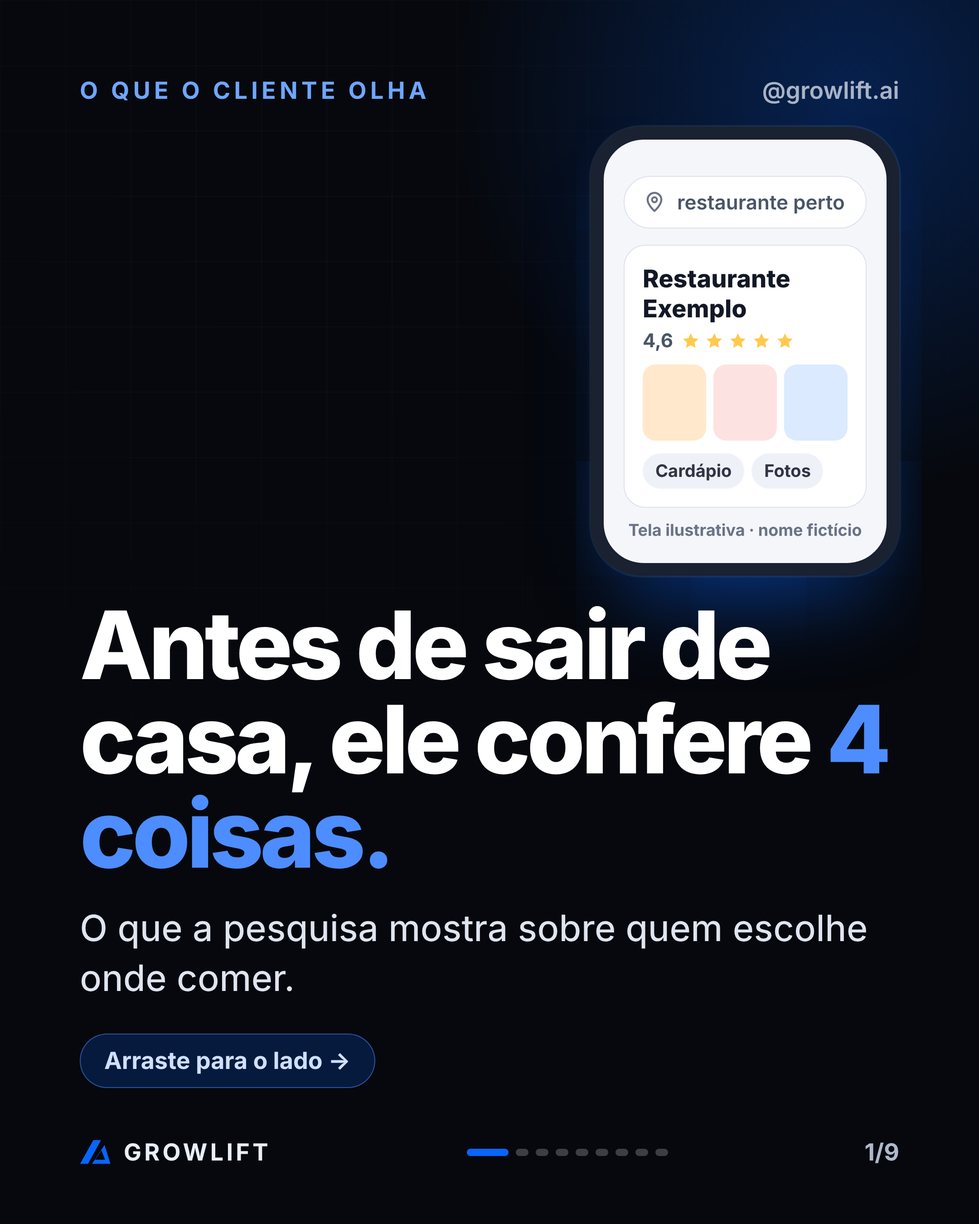
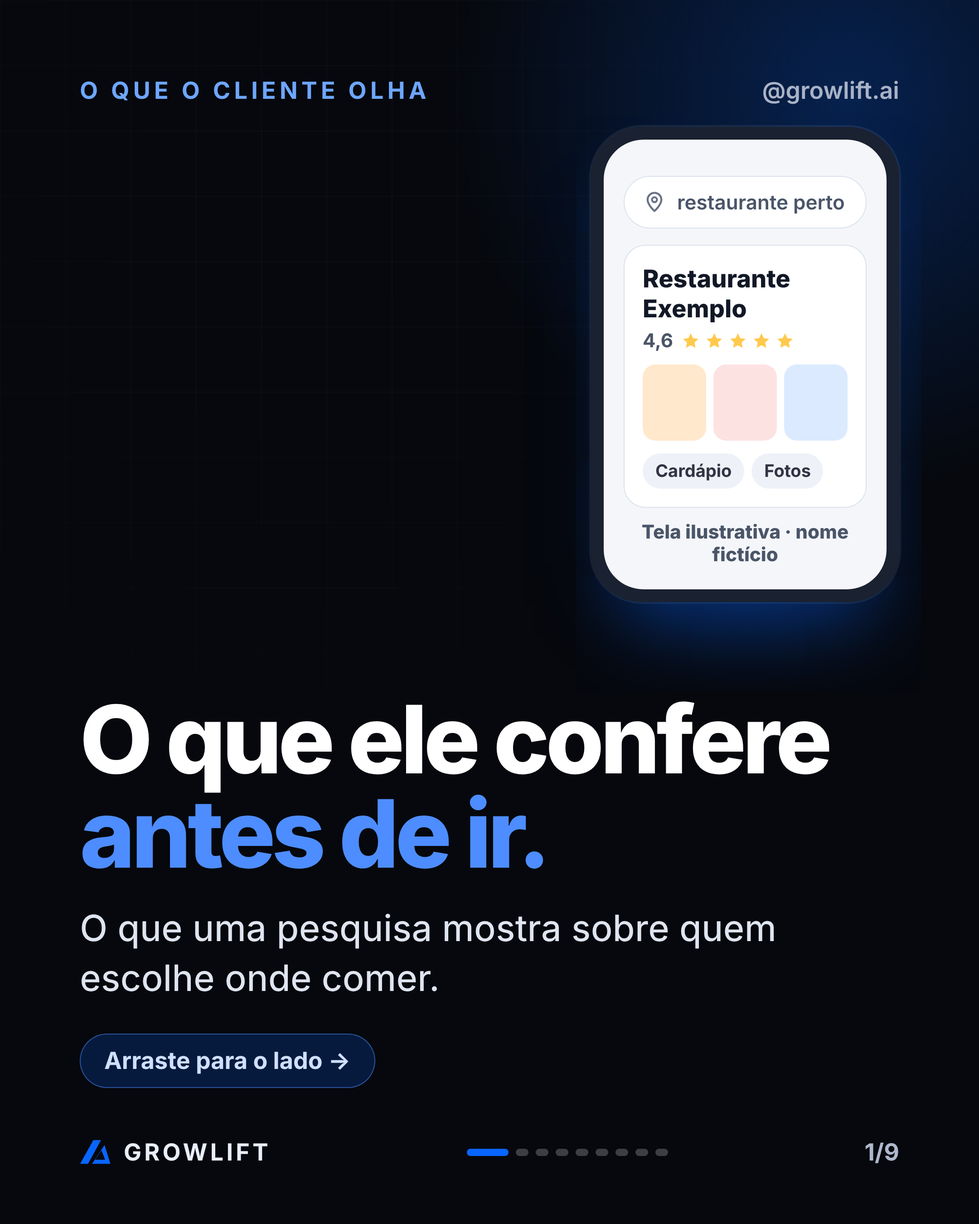
Carrosséis: ajustes da revisão legal (números fiéis à pesquisa, amostra de 3.006 casas, pedir avaliação a todos)
Claude-Session: https://claude.ai/code/session_0144E8K5YaHTVDtLe8swm1ug

Changed region(s): [[0.062, 0.4044, 0.9306, 0.7156], [0.0931, 0.7467, 0.8995, 0.8089]]

diff --git a/growlift-social/_fonte/html/09-carrosseis/02-avaliacao-ruim/01.html b/growlift-social/_fonte/html/09-carrosseis/02-avaliacao-ruim/01.html
@@ -39,7 +39,7 @@ body{background:#06080d}
 </style></head><body><div class="glow" style="width:1250px;height:1250px;right:-480px;top:-520px;opacity:.6"></div><div class="grid"></div>
     <div style="position:absolute;left:88px;right:88px;top:84px;display:flex;justify-content:space-between;align-items:center">
       <span class="k">Modelos prontos</span><span style="font-size:26px;font-weight:600;color:#a9b3c7">@growlift.ai</span></div>
-    <div style="position:absolute;left:88px;right:88px;top:170px;bottom:150px"><div style="position:absolute;left:0;right:0;top:0"><div class="card" style="margin-left:auto;width:720px;background:#f4f6fa;color:#121826;padding:30px 34px;transform:rotate(-3deg)"><div style="display:flex;justify-content:space-between;align-items:center"><b style="font-size:28px">Cliente (exemplo)</b><span style="display:inline-flex;gap:4px"><svg width="36" height="36" viewBox="0 0 24 24"><path d="M12 2.8l2.8 5.9 6.4.8-4.7 4.4 1.2 6.4L12 17.2l-5.7 3.1 1.2-6.4-4.7-4.4 6.4-.8z" fill="#ffc94d"/></svg><svg width="36" height="36" viewBox="0 0 24 24"><path d="M12 2.8l2.8 5.9 6.4.8-4.7 4.4 1.2 6.4L12 17.2l-5.7 3.1 1.2-6.4-4.7-4.4 6.4-.8z" fill="#d5dbe5"/></svg><svg width="36" height="36" viewBox="0 0 24 24"><path d="M12 2.8l2.8 5.9 6.4.8-4.7 4.4 1.2 6.4L12 17.2l-5.7 3.1 1.2-6.4-4.7-4.4 6.4-.8z" fill="#d5dbe5"/></svg><svg width="36" height="36" viewBox="0 0 24 24"><path d="M12 2.8l2.8 5.9 6.4.8-4.7 4.4 1.2 6.4L12 17.2l-5.7 3.1 1.2-6.4-4.7-4.4 6.4-.8z" fill="#d5dbe5"/></svg><svg width="36" height="36" viewBox="0 0 24 24"><path d="M12 2.8l2.8 5.9 6.4.8-4.7 4.4 1.2 6.4L12 17.2l-5.7 3.1 1.2-6.4-4.7-4.4 6.4-.8z" fill="#d5dbe5"/></svg></span></div><p style="font-size:32px;line-height:1.4;margin-top:14px;color:#2b3446">“Demorou demais e a comida chegou fria.”</p></div></div>
+    <div style="position:absolute;left:88px;right:88px;top:170px;bottom:150px"><div style="position:absolute;left:0;right:0;top:0"><div class="card" style="margin-left:auto;width:720px;background:#f4f6fa;color:#121826;padding:30px 34px;transform:rotate(-3deg)"><div style="display:flex;justify-content:space-between;align-items:center"><b style="font-size:28px">Cliente fictício (exemplo)</b><span style="display:inline-flex;gap:4px"><svg width="36" height="36" viewBox="0 0 24 24"><path d="M12 2.8l2.8 5.9 6.4.8-4.7 4.4 1.2 6.4L12 17.2l-5.7 3.1 1.2-6.4-4.7-4.4 6.4-.8z" fill="#ffc94d"/></svg><svg width="36" height="36" viewBox="0 0 24 24"><path d="M12 2.8l2.8 5.9 6.4.8-4.7 4.4 1.2 6.4L12 17.2l-5.7 3.1 1.2-6.4-4.7-4.4 6.4-.8z" fill="#d5dbe5"/></svg><svg width="36" height="36" viewBox="0 0 24 24"><path d="M12 2.8l2.8 5.9 6.4.8-4.7 4.4 1.2 6.4L12 17.2l-5.7 3.1 1.2-6.4-4.7-4.4 6.4-.8z" fill="#d5dbe5"/></svg><svg width="36" height="36" viewBox="0 0 24 24"><path d="M12 2.8l2.8 5.9 6.4.8-4.7 4.4 1.2 6.4L12 17.2l-5.7 3.1 1.2-6.4-4.7-4.4 6.4-.8z" fill="#d5dbe5"/></svg><svg width="36" height="36" viewBox="0 0 24 24"><path d="M12 2.8l2.8 5.9 6.4.8-4.7 4.4 1.2 6.4L12 17.2l-5.7 3.1 1.2-6.4-4.7-4.4 6.4-.8z" fill="#d5dbe5"/></svg></span></div><p style="font-size:32px;line-height:1.4;margin-top:14px;color:#2b3446">“Demorou demais e a comida chegou fria.”</p></div></div>
    <div style="position:absolute;left:0;right:0;bottom:0">
      
      <h1 class="t" style="font-size:104px">Recebeu 1 estrela. <span class="b">E agora?</span></h1>

diff --git a/growlift-social/_fonte/html/09-carrosseis/02-avaliacao-ruim/02.html b/growlift-social/_fonte/html/09-carrosseis/02-avaliacao-ruim/02.html
@@ -41,10 +41,10 @@ body{background:#06080d}
       <span class="k">Modelos prontos</span><span style="font-size:26px;font-weight:600;color:#a9b3c7">@growlift.ai</span></div>
     <div style="position:absolute;left:88px;right:88px;top:170px;bottom:150px"><div style="position:absolute;left:0;right:0;top:40px">
      <div style="font-size:300px;font-weight:900;letter-spacing:-.06em;line-height:.9;background:linear-gradient(180deg,#8db8ff,#0865fe);-webkit-background-clip:text;color:transparent">27%</div>
-     <h2 class="t" style="font-size:76px;margin-top:30px">das avaliações de restaurantes no Google recebem resposta.</h2>
-     <p class="p" style="margin-top:28px">E 40% dos clientes olham como você responde a uma crítica (Reclame AQUI e Abrasel, 2024).</p>
+     <h2 class="t" style="font-size:76px;margin-top:30px">das avaliações de 3.006 bares e restaurantes analisados no Google tiveram resposta.</h2>
+     <p class="p" style="margin-top:28px">E, pra 40% dos clientes, a resposta à crítica é fundamental pra decidir (Reclame AQUI e Abrasel, 2024).</p>
    </div>
-   <p class="s" style="position:absolute;left:0;right:0;bottom:0;border-top:1.5px solid rgba(255,255,255,.12);padding-top:22px">Fonte: Abrasel e Harmo, 279 mil avaliações de 3.006 bares e restaurantes no Google, jan/2023 a set/2024.</p></div>
+   <p class="s" style="position:absolute;left:0;right:0;bottom:0;border-top:1.5px solid rgba(255,255,255,.12);padding-top:22px">Fonte: Abrasel e Harmo, 279 mil avaliações de 3.006 bares e restaurantes associados à Abrasel no Google, jan/2023 a set/2024.</p></div>
     <div style="position:absolute;left:88px;right:88px;bottom:64px;display:flex;justify-content:space-between;align-items:center">
       <div style="display:flex;align-items:center;gap:14px;font-size:26px;font-weight:700;letter-spacing:.12em;color:#e8eefa"><span style="display:inline-block;height:27px"><svg height="27" viewBox="50 40 530 415" xmlns="http://www.w3.org/2000/svg"><path fill="#0865FE" d="M280 48H410L190 450H55Z"/><path fill="#0865FE" fill-rule="evenodd" d="M470 130L570 450H258Z M418 220L480 380H309Z"/></svg></span>GROWLIFT</div>
       <div style="display:flex;align-items:center;gap:8px"><i style="display:block;height:8px;border-radius:4px;width:14px;background:rgba(255,255,255,.22)"></i><i style="display:block;height:8px;border-radius:4px;width:46px;background:#0865fe"></i><i style="display:block;height:8px;border-radius:4px;width:14px;background:rgba(255,255,255,.22)"></i><i style="display:block;height:8px;border-radius:4px;width:14px;background:rgba(255,255,255,.22)"></i><i style="display:block;height:8px;border-radius:4px;width:14px;background:rgba(255,255,255,.22)"></i><i style="display:block;height:8px;border-radius:4px;width:14px;background:rgba(255,255,255,.22)"></i><i style="display:block;height:8px;border-radius:4px;width:14px;background:rgba(255,255,255,.22)"></i><i style="display:block;height:8px;border-radius:4px;width:14px;background:rgba(255,255,255,.22)"></i><i style="display:block;height:8px;border-radius:4px;width:14px;background:rgba(255,255,255,.22)"></i></div>

diff --git a/growlift-social/_fonte/html/09-carrosseis/02-avaliacao-ruim/07.html b/growlift-social/_fonte/html/09-carrosseis/02-avaliacao-ruim/07.html
@@ -47,7 +47,7 @@ body{background:#06080d}
      </div>
      <div class="card" style="padding:30px 34px;border-color:rgba(255,107,91,.45)">
        <div class="k" style="color:#ff6b5b">Evite</div>
-       <div class="row" style="margin-top:20px"><span class="ck" style="background:rgba(255,107,91,.18);width:48px;height:48px"><svg width="26" height="26" viewBox="0 0 24 24" fill="none" stroke="#ff6b5b" stroke-width="3.2" stroke-linecap="round"><path d="M6 6l12 12M18 6L6 18"/></svg></span><span style="font-size:36px;font-weight:650;line-height:1.3">Discutir ou acusar o cliente</span></div><div class="row" style="margin-top:20px"><span class="ck" style="background:rgba(255,107,91,.18);width:48px;height:48px"><svg width="26" height="26" viewBox="0 0 24 24" fill="none" stroke="#ff6b5b" stroke-width="3.2" stroke-linecap="round"><path d="M6 6l12 12M18 6L6 18"/></svg></span><span style="font-size:36px;font-weight:650;line-height:1.3">A mesma resposta copiada pra todos</span></div><div class="row" style="margin-top:20px"><span class="ck" style="background:rgba(255,107,91,.18);width:48px;height:48px"><svg width="26" height="26" viewBox="0 0 24 24" fill="none" stroke="#ff6b5b" stroke-width="3.2" stroke-linecap="round"><path d="M6 6l12 12M18 6L6 18"/></svg></span><span style="font-size:36px;font-weight:650;line-height:1.3">Oferecer brinde pra mudar a nota</span></div>
+       <div class="row" style="margin-top:20px"><span class="ck" style="background:rgba(255,107,91,.18);width:48px;height:48px"><svg width="26" height="26" viewBox="0 0 24 24" fill="none" stroke="#ff6b5b" stroke-width="3.2" stroke-linecap="round"><path d="M6 6l12 12M18 6L6 18"/></svg></span><span style="font-size:36px;font-weight:650;line-height:1.3">Discutir ou acusar o cliente</span></div><div class="row" style="margin-top:20px"><span class="ck" style="background:rgba(255,107,91,.18);width:48px;height:48px"><svg width="26" height="26" viewBox="0 0 24 24" fill="none" stroke="#ff6b5b" stroke-width="3.2" stroke-linecap="round"><path d="M6 6l12 12M18 6L6 18"/></svg></span><span style="font-size:36px;font-weight:650;line-height:1.3">A mesma resposta copiada pra todos</span></div><div class="row" style="margin-top:20px"><span class="ck" style="background:rgba(255,107,91,.18);width:48px;height:48px"><svg width="26" height="26" viewBox="0 0 24 24" fill="none" stroke="#ff6b5b" stroke-width="3.2" stroke-linecap="round"><path d="M6 6l12 12M18 6L6 18"/></svg></span><span style="font-size:36px;font-weight:650;line-height:1.3">Expor dados do cliente na resposta</span></div><div class="row" style="margin-top:20px"><span class="ck" style="background:rgba(255,107,91,.18);width:48px;height:48px"><svg width="26" height="26" viewBox="0 0 24 24" fill="none" stroke="#ff6b5b" stroke-width="3.2" stroke-linecap="round"><path d="M6 6l12 12M18 6L6 18"/></svg></span><span style="font-size:36px;font-weight:650;line-height:1.3">Oferecer brinde pra mudar a nota</span></div>
      </div>
    </div></div>
     <div style="position:absolute;left:88px;right:88px;bottom:64px;display:flex;justify-content:space-between;align-items:center">

diff --git a/growlift-social/_fonte/html/09-carrosseis/02-avaliacao-ruim/05.html b/growlift-social/_fonte/html/09-carrosseis/02-avaliacao-ruim/05.html
@@ -41,7 +41,7 @@ body{background:#06080d}
       <span class="k">Modelos prontos</span><span style="font-size:26px;font-weight:600;color:#a9b3c7">@growlift.ai</span></div>
     <div style="position:absolute;left:88px;right:88px;top:170px;bottom:150px"><span class="pill">Avaliação média</span>
    <div class="card" style="margin-top:34px;background:#f4f6fa;color:#121826;padding:34px 38px">
-     <div style="display:flex;justify-content:space-between;align-items:center"><b style="font-size:30px">Cliente (exemplo)</b><span style="display:inline-flex;gap:4px"><svg width="36" height="36" viewBox="0 0 24 24"><path d="M12 2.8l2.8 5.9 6.4.8-4.7 4.4 1.2 6.4L12 17.2l-5.7 3.1 1.2-6.4-4.7-4.4 6.4-.8z" fill="#ffc94d"/></svg><svg width="36" height="36" viewBox="0 0 24 24"><path d="M12 2.8l2.8 5.9 6.4.8-4.7 4.4 1.2 6.4L12 17.2l-5.7 3.1 1.2-6.4-4.7-4.4 6.4-.8z" fill="#ffc94d"/></svg><svg width="36" height="36" viewBox="0 0 24 24"><path d="M12 2.8l2.8 5.9 6.4.8-4.7 4.4 1.2 6.4L12 17.2l-5.7 3.1 1.2-6.4-4.7-4.4 6.4-.8z" fill="#ffc94d"/></svg><svg width="36" height="36" viewBox="0 0 24 24"><path d="M12 2.8l2.8 5.9 6.4.8-4.7 4.4 1.2 6.4L12 17.2l-5.7 3.1 1.2-6.4-4.7-4.4 6.4-.8z" fill="#d5dbe5"/></svg><svg width="36" height="36" viewBox="0 0 24 24"><path d="M12 2.8l2.8 5.9 6.4.8-4.7 4.4 1.2 6.4L12 17.2l-5.7 3.1 1.2-6.4-4.7-4.4 6.4-.8z" fill="#d5dbe5"/></svg></span></div>
+     <div style="display:flex;justify-content:space-between;align-items:center"><b style="font-size:30px">Cliente fictício (exemplo)</b><span style="display:inline-flex;gap:4px"><svg width="36" height="36" viewBox="0 0 24 24"><path d="M12 2.8l2.8 5.9 6.4.8-4.7 4.4 1.2 6.4L12 17.2l-5.7 3.1 1.2-6.4-4.7-4.4 6.4-.8z" fill="#ffc94d"/></svg><svg width="36" height="36" viewBox="0 0 24 24"><path d="M12 2.8l2.8 5.9 6.4.8-4.7 4.4 1.2 6.4L12 17.2l-5.7 3.1 1.2-6.4-4.7-4.4 6.4-.8z" fill="#ffc94d"/></svg><svg width="36" height="36" viewBox="0 0 24 24"><path d="M12 2.8l2.8 5.9 6.4.8-4.7 4.4 1.2 6.4L12 17.2l-5.7 3.1 1.2-6.4-4.7-4.4 6.4-.8z" fill="#ffc94d"/></svg><svg width="36" height="36" viewBox="0 0 24 24"><path d="M12 2.8l2.8 5.9 6.4.8-4.7 4.4 1.2 6.4L12 17.2l-5.7 3.1 1.2-6.4-4.7-4.4 6.4-.8z" fill="#d5dbe5"/></svg><svg width="36" height="36" viewBox="0 0 24 24"><path d="M12 2.8l2.8 5.9 6.4.8-4.7 4.4 1.2 6.4L12 17.2l-5.7 3.1 1.2-6.4-4.7-4.4 6.4-.8z" fill="#d5dbe5"/></svg></span></div>
      <p style="font-size:34px;line-height:1.4;margin-top:16px;color:#2b3446">“Comida boa, mas o lugar estava cheio e barulhento.”</p>
    </div>
    <div style="display:flex;align-items:center;gap:14px;margin:30px 0 0 30px" class="k"><svg width="34" height="34" viewBox="0 0 24 24" fill="none" stroke="#6ea6ff" stroke-width="2" stroke-linecap="round" stroke-linejoin="round" aria-hidden="true"><path d="M20.5 11.5a8.5 8.5 0 0 1-12.6 7.4L3 20.5l1.5-4.7A8.5 8.5 0 1 1 20.5 11.5z"/><path d="M8.5 11.5h.01M12 11.5h.01M15.5 11.5h.01" stroke-width="2.6"/></svg>Sua resposta (copie e adapte)</div>

diff --git a/growlift-social/_fonte/html/09-carrosseis/01-antes-de-ir/07.html b/growlift-social/_fonte/html/09-carrosseis/01-antes-de-ir/07.html
@@ -41,10 +41,10 @@ body{background:#06080d}
       <span class="k">O que o cliente olha</span><span style="font-size:26px;font-weight:600;color:#a9b3c7">@growlift.ai</span></div>
     <div style="position:absolute;left:88px;right:88px;top:170px;bottom:150px"><div style="position:absolute;left:0;right:0;top:40px">
      <div style="font-size:300px;font-weight:900;letter-spacing:-.06em;line-height:.9;background:linear-gradient(180deg,#8db8ff,#0865fe);-webkit-background-clip:text;color:transparent">40%</div>
-     <h2 class="t" style="font-size:76px;margin-top:30px">olham como você responde a uma crítica.</h2>
-     <p class="p" style="margin-top:28px">Uma resposta educada pesa tanto quanto a reclamação.</p>
+     <h2 class="t" style="font-size:76px;margin-top:30px">dizem que a resposta à crítica é fundamental pra decidir.</h2>
+     <p class="p" style="margin-top:28px">Responder bem, com educação, pode fazer diferença.</p>
    </div>
-   <p class="s" style="position:absolute;left:0;right:0;bottom:0;border-top:1.5px solid rgba(255,255,255,.12);padding-top:22px">Fonte: Reclame AQUI e Abrasel, pesquisa com mais de 400 consumidores, agosto de 2024.</p></div>
+   <p class="s" style="position:absolute;left:0;right:0;bottom:0;border-top:1.5px solid rgba(255,255,255,.12);padding-top:22px">Fonte: Reclame AQUI e Abrasel, pesquisa com mais de 400 consumidores na plataforma do Reclame AQUI, agosto de 2024.</p></div>
     <div style="position:absolute;left:88px;right:88px;bottom:64px;display:flex;justify-content:space-between;align-items:center">
       <div style="display:flex;align-items:center;gap:14px;font-size:26px;font-weight:700;letter-spacing:.12em;color:#e8eefa"><span style="display:inline-block;height:27px"><svg height="27" viewBox="50 40 530 415" xmlns="http://www.w3.org/2000/svg"><path fill="#0865FE" d="M280 48H410L190 450H55Z"/><path fill="#0865FE" fill-rule="evenodd" d="M470 130L570 450H258Z M418 220L480 380H309Z"/></svg></span>GROWLIFT</div>
       <div style="display:flex;align-items:center;gap:8px"><i style="display:block;height:8px;border-radius:4px;width:14px;background:rgba(255,255,255,.22)"></i><i style="display:block;height:8px;border-radius:4px;width:14px;background:rgba(255,255,255,.22)"></i><i style="display:block;height:8px;border-radius:4px;width:14px;background:rgba(255,255,255,.22)"></i><i style="display:block;height:8px;border-radius:4px;width:14px;background:rgba(255,255,255,.22)"></i><i style="display:block;height:8px;border-radius:4px;width:14px;background:rgba(255,255,255,.22)"></i><i style="display:block;height:8px;border-radius:4px;width:14px;background:rgba(255,255,255,.22)"></i><i style="display:block;height:8px;border-radius:4px;width:46px;background:#0865fe"></i><i style="display:block;height:8px;border-radius:4px;width:14px;background:rgba(255,255,255,.22)"></i><i style="display:block;height:8px;border-radius:4px;width:14px;background:rgba(255,255,255,.22)"></i></div>

diff --git a/growlift-social/_fonte/html/09-carrosseis/02-avaliacao-ruim/04.html b/growlift-social/_fonte/html/09-carrosseis/02-avaliacao-ruim/04.html
@@ -41,7 +41,7 @@ body{background:#06080d}
       <span class="k">Modelos prontos</span><span style="font-size:26px;font-weight:600;color:#a9b3c7">@growlift.ai</span></div>
     <div style="position:absolute;left:88px;right:88px;top:170px;bottom:150px"><span class="pill">Avaliação boa</span>
    <div class="card" style="margin-top:34px;background:#f4f6fa;color:#121826;padding:34px 38px">
-     <div style="display:flex;justify-content:space-between;align-items:center"><b style="font-size:30px">Cliente (exemplo)</b><span style="display:inline-flex;gap:4px"><svg width="36" height="36" viewBox="0 0 24 24"><path d="M12 2.8l2.8 5.9 6.4.8-4.7 4.4 1.2 6.4L12 17.2l-5.7 3.1 1.2-6.4-4.7-4.4 6.4-.8z" fill="#ffc94d"/></svg><svg width="36" height="36" viewBox="0 0 24 24"><path d="M12 2.8l2.8 5.9 6.4.8-4.7 4.4 1.2 6.4L12 17.2l-5.7 3.1 1.2-6.4-4.7-4.4 6.4-.8z" fill="#ffc94d"/></svg><svg width="36" height="36" viewBox="0 0 24 24"><path d="M12 2.8l2.8 5.9 6.4.8-4.7 4.4 1.2 6.4L12 17.2l-5.7 3.1 1.2-6.4-4.7-4.4 6.4-.8z" fill="#ffc94d"/></svg><svg width="36" height="36" viewBox="0 0 24 24"><path d="M12 2.8l2.8 5.9 6.4.8-4.7 4.4 1.2 6.4L12 17.2l-5.7 3.1 1.2-6.4-4.7-4.4 6.4-.8z" fill="#ffc94d"/></svg><svg width="36" height="36" viewBox="0 0 24 24"><path d="M12 2.8l2.8 5.9 6.4.8-4.7 4.4 1.2 6.4L12 17.2l-5.7 3.1 1.2-6.4-4.7-4.4 6.4-.8z" fill="#ffc94d"/></svg></span></div>
+     <div style="display:flex;justify-content:space-between;align-items:center"><b style="font-size:30px">Cliente fictício (exemplo)</b><span style="display:inline-flex;gap:4px"><svg width="36" height="36" viewBox="0 0 24 24"><path d="M12 2.8l2.8 5.9 6.4.8-4.7 4.4 1.2 6.4L12 17.2l-5.7 3.1 1.2-6.4-4.7-4.4 6.4-.8z" fill="#ffc94d"/></svg><svg width="36" height="36" viewBox="0 0 24 24"><path d="M12 2.8l2.8 5.9 6.4.8-4.7 4.4 1.2 6.4L12 17.2l-5.7 3.1 1.2-6.4-4.7-4.4 6.4-.8z" fill="#ffc94d"/></svg><svg width="36" height="36" viewBox="0 0 24 24"><path d="M12 2.8l2.8 5.9 6.4.8-4.7 4.4 1.2 6.4L12 17.2l-5.7 3.1 1.2-6.4-4.7-4.4 6.4-.8z" fill="#ffc94d"/></svg><svg width="36" height="36" viewBox="0 0 24 24"><path d="M12 2.8l2.8 5.9 6.4.8-4.7 4.4 1.2 6.4L12 17.2l-5.7 3.1 1.2-6.4-4.7-4.4 6.4-.8z" fill="#ffc94d"/></svg><svg width="36" height="36" viewBox="0 0 24 24"><path d="M12 2.8l2.8 5.9 6.4.8-4.7 4.4 1.2 6.4L12 17.2l-5.7 3.1 1.2-6.4-4.7-4.4 6.4-.8z" fill="#ffc94d"/></svg></span></div>
      <p style="font-size:34px;line-height:1.4;margin-top:16px;color:#2b3446">“Comida ótima e atendimento rápido. Voltaremos!”</p>
    </div>
    <div style="display:flex;align-items:center;gap:14px;margin:30px 0 0 30px" class="k"><svg width="34" height="34" viewBox="0 0 24 24" fill="none" stroke="#6ea6ff" stroke-width="2" stroke-linecap="round" stroke-linejoin="round" aria-hidden="true"><path d="M20.5 11.5a8.5 8.5 0 0 1-12.6 7.4L3 20.5l1.5-4.7A8.5 8.5 0 1 1 20.5 11.5z"/><path d="M8.5 11.5h.01M12 11.5h.01M15.5 11.5h.01" stroke-width="2.6"/></svg>Sua resposta (copie e adapte)</div>

diff --git a/growlift-social/_fonte/html/09-carrosseis/02-avaliacao-ruim/06.html b/growlift-social/_fonte/html/09-carrosseis/02-avaliacao-ruim/06.html
@@ -41,7 +41,7 @@ body{background:#06080d}
       <span class="k">Modelos prontos</span><span style="font-size:26px;font-weight:600;color:#a9b3c7">@growlift.ai</span></div>
     <div style="position:absolute;left:88px;right:88px;top:170px;bottom:150px"><span class="pill">Avaliação ruim</span>
    <div class="card" style="margin-top:34px;background:#f4f6fa;color:#121826;padding:34px 38px">
-     <div style="display:flex;justify-content:space-between;align-items:center"><b style="font-size:30px">Cliente (exemplo)</b><span style="display:inline-flex;gap:4px"><svg width="36" height="36" viewBox="0 0 24 24"><path d="M12 2.8l2.8 5.9 6.4.8-4.7 4.4 1.2 6.4L12 17.2l-5.7 3.1 1.2-6.4-4.7-4.4 6.4-.8z" fill="#ffc94d"/></svg><svg width="36" height="36" viewBox="0 0 24 24"><path d="M12 2.8l2.8 5.9 6.4.8-4.7 4.4 1.2 6.4L12 17.2l-5.7 3.1 1.2-6.4-4.7-4.4 6.4-.8z" fill="#d5dbe5"/></svg><svg width="36" height="36" viewBox="0 0 24 24"><path d="M12 2.8l2.8 5.9 6.4.8-4.7 4.4 1.2 6.4L12 17.2l-5.7 3.1 1.2-6.4-4.7-4.4 6.4-.8z" fill="#d5dbe5"/></svg><svg width="36" height="36" viewBox="0 0 24 24"><path d="M12 2.8l2.8 5.9 6.4.8-4.7 4.4 1.2 6.4L12 17.2l-5.7 3.1 1.2-6.4-4.7-4.4 6.4-.8z" fill="#d5dbe5"/></svg><svg width="36" height="36" viewBox="0 0 24 24"><path d="M12 2.8l2.8 5.9 6.4.8-4.7 4.4 1.2 6.4L12 17.2l-5.7 3.1 1.2-6.4-4.7-4.4 6.4-.8z" fill="#d5dbe5"/></svg></span></div>
+     <div style="display:flex;justify-content:space-between;align-items:center"><b style="font-size:30px">Cliente fictício (exemplo)</b><span style="display:inline-flex;gap:4px"><svg width="36" height="36" viewBox="0 0 24 24"><path d="M12 2.8l2.8 5.9 6.4.8-4.7 4.4 1.2 6.4L12 17.2l-5.7 3.1 1.2-6.4-4.7-4.4 6.4-.8z" fill="#ffc94d"/></svg><svg width="36" height="36" viewBox="0 0 24 24"><path d="M12 2.8l2.8 5.9 6.4.8-4.7 4.4 1.2 6.4L12 17.2l-5.7 3.1 1.2-6.4-4.7-4.4 6.4-.8z" fill="#d5dbe5"/></svg><svg width="36" height="36" viewBox="0 0 24 24"><path d="M12 2.8l2.8 5.9 6.4.8-4.7 4.4 1.2 6.4L12 17.2l-5.7 3.1 1.2-6.4-4.7-4.4 6.4-.8z" fill="#d5dbe5"/></svg><svg width="36" height="36" viewBox="0 0 24 24"><path d="M12 2.8l2.8 5.9 6.4.8-4.7 4.4 1.2 6.4L12 17.2l-5.7 3.1 1.2-6.4-4.7-4.4 6.4-.8z" fill="#d5dbe5"/></svg><svg width="36" height="36" viewBox="0 0 24 24"><path d="M12 2.8l2.8 5.9 6.4.8-4.7 4.4 1.2 6.4L12 17.2l-5.7 3.1 1.2-6.4-4.7-4.4 6.4-.8z" fill="#d5dbe5"/></svg></span></div>
      <p style="font-size:34px;line-height:1.4;margin-top:16px;color:#2b3446">“Demorou demais e a comida chegou fria.”</p>
    </div>
    <div style="display:flex;align-items:center;gap:14px;margin:30px 0 0 30px" class="k"><svg width="34" height="34" viewBox="0 0 24 24" fill="none" stroke="#6ea6ff" stroke-width="2" stroke-linecap="round" stroke-linejoin="round" aria-hidden="true"><path d="M20.5 11.5a8.5 8.5 0 0 1-12.6 7.4L3 20.5l1.5-4.7A8.5 8.5 0 1 1 20.5 11.5z"/><path d="M8.5 11.5h.01M12 11.5h.01M15.5 11.5h.01" stroke-width="2.6"/></svg>Sua resposta (copie e adapte)</div>

diff --git a/growlift-social/_fonte/html/09-carrosseis/03-perfil-google-checklist/02.html b/growlift-social/_fonte/html/09-carrosseis/03-perfil-google-checklist/02.html
@@ -41,10 +41,10 @@ body{background:#06080d}
       <span class="k">Checklist</span><span style="font-size:26px;font-weight:600;color:#a9b3c7">@growlift.ai</span></div>
     <div style="position:absolute;left:88px;right:88px;top:170px;bottom:150px"><div style="position:absolute;left:0;right:0;top:40px">
      <div style="font-size:300px;font-weight:900;letter-spacing:-.06em;line-height:.9;background:linear-gradient(180deg,#8db8ff,#0865fe);-webkit-background-clip:text;color:transparent">4,3</div>
-     <h2 class="t" style="font-size:76px;margin-top:30px">é a nota média dos bares e restaurantes no Google.</h2>
+     <h2 class="t" style="font-size:76px;margin-top:30px">é a nota média de 3.006 bares e restaurantes analisados no Google.</h2>
      <p class="p" style="margin-top:28px">Nota é só uma parte. O resto do perfil é o que você controla hoje.</p>
    </div>
-   <p class="s" style="position:absolute;left:0;right:0;bottom:0;border-top:1.5px solid rgba(255,255,255,.12);padding-top:22px">Fonte: Abrasel e Harmo, 279 mil avaliações de 3.006 bares e restaurantes no Google, jan/2023 a set/2024.</p></div>
+   <p class="s" style="position:absolute;left:0;right:0;bottom:0;border-top:1.5px solid rgba(255,255,255,.12);padding-top:22px">Fonte: Abrasel e Harmo, 279 mil avaliações de 3.006 bares e restaurantes associados à Abrasel no Google, jan/2023 a set/2024.</p></div>
     <div style="position:absolute;left:88px;right:88px;bottom:64px;display:flex;justify-content:space-between;align-items:center">
       <div style="display:flex;align-items:center;gap:14px;font-size:26px;font-weight:700;letter-spacing:.12em;color:#e8eefa"><span style="display:inline-block;height:27px"><svg height="27" viewBox="50 40 530 415" xmlns="http://www.w3.org/2000/svg"><path fill="#0865FE" d="M280 48H410L190 450H55Z"/><path fill="#0865FE" fill-rule="evenodd" d="M470 130L570 450H258Z M418 220L480 380H309Z"/></svg></span>GROWLIFT</div>
       <div style="display:flex;align-items:center;gap:8px"><i style="display:block;height:8px;border-radius:4px;width:14px;background:rgba(255,255,255,.22)"></i><i style="display:block;height:8px;border-radius:4px;width:46px;background:#0865fe"></i><i style="display:block;height:8px;border-radius:4px;width:14px;background:rgba(255,255,255,.22)"></i><i style="display:block;height:8px;border-radius:4px;width:14px;background:rgba(255,255,255,.22)"></i><i style="display:block;height:8px;border-radius:4px;width:14px;background:rgba(255,255,255,.22)"></i><i style="display:block;height:8px;border-radius:4px;width:14px;background:rgba(255,255,255,.22)"></i><i style="display:block;height:8px;border-radius:4px;width:14px;background:rgba(255,255,255,.22)"></i><i style="display:block;height:8px;border-radius:4px;width:14px;background:rgba(255,255,255,.22)"></i></div>

diff --git a/growlift-social/_fonte/html/09-carrosseis/05-site-ou-instagram/04.html b/growlift-social/_fonte/html/09-carrosseis/05-site-ou-instagram/04.html
@@ -47,7 +47,7 @@ body{background:#06080d}
      </div>
      <div class="card" style="padding:30px 34px;border-color:rgba(255,107,91,.45)">
        <div class="k" style="color:#ff6b5b">Evite</div>
-       <div class="row" style="margin-top:20px"><span class="ck" style="background:rgba(255,107,91,.18);width:48px;height:48px"><svg width="26" height="26" viewBox="0 0 24 24" fill="none" stroke="#ff6b5b" stroke-width="3.2" stroke-linecap="round"><path d="M6 6l12 12M18 6L6 18"/></svg></span><span style="font-size:36px;font-weight:650;line-height:1.3">Cardápio só em foto (difícil de ler)</span></div><div class="row" style="margin-top:20px"><span class="ck" style="background:rgba(255,107,91,.18);width:48px;height:48px"><svg width="26" height="26" viewBox="0 0 24 24" fill="none" stroke="#ff6b5b" stroke-width="3.2" stroke-linecap="round"><path d="M6 6l12 12M18 6L6 18"/></svg></span><span style="font-size:36px;font-weight:650;line-height:1.3">Depender só de quem já te segue</span></div><div class="row" style="margin-top:20px"><span class="ck" style="background:rgba(255,107,91,.18);width:48px;height:48px"><svg width="26" height="26" viewBox="0 0 24 24" fill="none" stroke="#ff6b5b" stroke-width="3.2" stroke-linecap="round"><path d="M6 6l12 12M18 6L6 18"/></svg></span><span style="font-size:36px;font-weight:650;line-height:1.3">Endereço e horário perdidos nos posts</span></div>
+       <div class="row" style="margin-top:20px"><span class="ck" style="background:rgba(255,107,91,.18);width:48px;height:48px"><svg width="26" height="26" viewBox="0 0 24 24" fill="none" stroke="#ff6b5b" stroke-width="3.2" stroke-linecap="round"><path d="M6 6l12 12M18 6L6 18"/></svg></span><span style="font-size:36px;font-weight:650;line-height:1.3">Cardápio só em foto (difícil de ler)</span></div><div class="row" style="margin-top:20px"><span class="ck" style="background:rgba(255,107,91,.18);width:48px;height:48px"><svg width="26" height="26" viewBox="0 0 24 24" fill="none" stroke="#ff6b5b" stroke-width="3.2" stroke-linecap="round"><path d="M6 6l12 12M18 6L6 18"/></svg></span><span style="font-size:36px;font-weight:650;line-height:1.3">Depender só do algoritmo pra ser achado</span></div><div class="row" style="margin-top:20px"><span class="ck" style="background:rgba(255,107,91,.18);width:48px;height:48px"><svg width="26" height="26" viewBox="0 0 24 24" fill="none" stroke="#ff6b5b" stroke-width="3.2" stroke-linecap="round"><path d="M6 6l12 12M18 6L6 18"/></svg></span><span style="font-size:36px;font-weight:650;line-height:1.3">Endereço e horário perdidos nos posts</span></div>
      </div>
    </div></div>
     <div style="position:absolute;left:88px;right:88px;bottom:64px;display:flex;justify-content:space-between;align-items:center">

diff --git a/growlift-social/_fonte/html/09-carrosseis/01-antes-de-ir/03.html b/growlift-social/_fonte/html/09-carrosseis/01-antes-de-ir/03.html
@@ -41,10 +41,10 @@ body{background:#06080d}
       <span class="k">O que o cliente olha</span><span style="font-size:26px;font-weight:600;color:#a9b3c7">@growlift.ai</span></div>
     <div style="position:absolute;left:88px;right:88px;top:170px;bottom:150px"><div style="display:flex;align-items:center;gap:26px">
      <span style="font-size:120px;font-weight:900;letter-spacing:-.05em;line-height:.85;color:transparent;-webkit-text-stroke:3px #4d8dff">01</span>
-     <span class="pill">63%</span>
+     <span class="pill">24% buscam</span>
    </div>
    <h2 class="t" style="font-size:84px;margin-top:34px">As <span class="b">avaliações.</span></h2>
-   <p class="p" style="margin-top:26px">Peça avaliação a quem gostou (um QR no balcão ajuda) e responda todas, as boas e as ruins.</p>
+   <p class="p" style="margin-top:26px">Peça avaliação a todos os clientes (um QR no balcão ajuda) e responda todas, as boas e as ruins.</p>
    <div style="position:absolute;left:0;right:0;bottom:0"><div class="card" style="padding:28px 32px;display:flex;align-items:center;gap:24px"><span style="font-size:72px;font-weight:900">4,6</span><span style="display:inline-flex;gap:4px"><svg width="48" height="48" viewBox="0 0 24 24"><path d="M12 2.8l2.8 5.9 6.4.8-4.7 4.4 1.2 6.4L12 17.2l-5.7 3.1 1.2-6.4-4.7-4.4 6.4-.8z" fill="#ffc94d"/></svg><svg width="48" height="48" viewBox="0 0 24 24"><path d="M12 2.8l2.8 5.9 6.4.8-4.7 4.4 1.2 6.4L12 17.2l-5.7 3.1 1.2-6.4-4.7-4.4 6.4-.8z" fill="#ffc94d"/></svg><svg width="48" height="48" viewBox="0 0 24 24"><path d="M12 2.8l2.8 5.9 6.4.8-4.7 4.4 1.2 6.4L12 17.2l-5.7 3.1 1.2-6.4-4.7-4.4 6.4-.8z" fill="#ffc94d"/></svg><svg width="48" height="48" viewBox="0 0 24 24"><path d="M12 2.8l2.8 5.9 6.4.8-4.7 4.4 1.2 6.4L12 17.2l-5.7 3.1 1.2-6.4-4.7-4.4 6.4-.8z" fill="#ffc94d"/></svg><svg width="48" height="48" viewBox="0 0 24 24"><path d="M12 2.8l2.8 5.9 6.4.8-4.7 4.4 1.2 6.4L12 17.2l-5.7 3.1 1.2-6.4-4.7-4.4 6.4-.8z" fill="#ffc94d"/></svg></span><span class="s" style="font-size:28px">exemplo</span></div></div></div>
     <div style="position:absolute;left:88px;right:88px;bottom:64px;display:flex;justify-content:space-between;align-items:center">
       <div style="display:flex;align-items:center;gap:14px;font-size:26px;font-weight:700;letter-spacing:.12em;color:#e8eefa"><span style="display:inline-block;height:27px"><svg height="27" viewBox="50 40 530 415" xmlns="http://www.w3.org/2000/svg"><path fill="#0865FE" d="M280 48H410L190 450H55Z"/><path fill="#0865FE" fill-rule="evenodd" d="M470 130L570 450H258Z M418 220L480 380H309Z"/></svg></span>GROWLIFT</div>

diff --git a/growlift-social/_fonte/html/09-carrosseis/05-site-ou-instagram/02.html b/growlift-social/_fonte/html/09-carrosseis/05-site-ou-instagram/02.html
@@ -45,7 +45,7 @@ body{background:#06080d}
    </div>
    <h2 class="t" style="font-size:84px;margin-top:34px">Não é <span class="b">um ou outro.</span></h2>
    <p class="p" style="margin-top:26px">O Instagram mostra o dia a dia pra quem já te segue. O site organiza tudo pra quem procura você agora, no Google ou no link que você manda.</p>
-   <div style="position:absolute;left:0;right:0;bottom:0"><div class="card" style="padding:26px 30px"><p class="s" style="font-size:28px">Na pesquisa da Reclame AQUI com a Abrasel (2024), ao ver uma crítica, 14% procuram o restaurante nas redes sociais e 11% vão ao site oficial.</p></div></div></div>
+   <div style="position:absolute;left:0;right:0;bottom:0"><div class="card" style="padding:26px 30px"><p class="s" style="font-size:28px">Na pesquisa da Reclame AQUI com a Abrasel (2024), ao ver uma crítica, 59% leem opiniões de outros clientes, 14% procuram o restaurante nas redes sociais e 11% vão ao site oficial.</p></div></div></div>
     <div style="position:absolute;left:88px;right:88px;bottom:64px;display:flex;justify-content:space-between;align-items:center">
       <div style="display:flex;align-items:center;gap:14px;font-size:26px;font-weight:700;letter-spacing:.12em;color:#e8eefa"><span style="display:inline-block;height:27px"><svg height="27" viewBox="50 40 530 415" xmlns="http://www.w3.org/2000/svg"><path fill="#0865FE" d="M280 48H410L190 450H55Z"/><path fill="#0865FE" fill-rule="evenodd" d="M470 130L570 450H258Z M418 220L480 380H309Z"/></svg></span>GROWLIFT</div>
       <div style="display:flex;align-items:center;gap:8px"><i style="display:block;height:8px;border-radius:4px;width:14px;background:rgba(255,255,255,.22)"></i><i style="display:block;height:8px;border-radius:4px;width:46px;background:#0865fe"></i><i style="display:block;height:8px;border-radius:4px;width:14px;background:rgba(255,255,255,.22)"></i><i style="display:block;height:8px;border-radius:4px;width:14px;background:rgba(255,255,255,.22)"></i><i style="display:block;height:8px;border-radius:4px;width:14px;background:rgba(255,255,255,.22)"></i><i style="display:block;height:8px;border-radius:4px;width:14px;background:rgba(255,255,255,.22)"></i><i style="display:block;height:8px;border-radius:4px;width:14px;background:rgba(255,255,255,.22)"></i><i style="display:block;height:8px;border-radius:4px;width:14px;background:rgba(255,255,255,.22)"></i></div>

diff --git a/growlift-social/_fonte/html/09-carrosseis/01-antes-de-ir/04.html b/growlift-social/_fonte/html/09-carrosseis/01-antes-de-ir/04.html
@@ -41,10 +41,10 @@ body{background:#06080d}
       <span class="k">O que o cliente olha</span><span style="font-size:26px;font-weight:600;color:#a9b3c7">@growlift.ai</span></div>
     <div style="position:absolute;left:88px;right:88px;top:170px;bottom:150px"><div style="display:flex;align-items:center;gap:26px">
      <span style="font-size:120px;font-weight:900;letter-spacing:-.05em;line-height:.85;color:transparent;-webkit-text-stroke:3px #4d8dff">02</span>
-     <span class="pill">23%</span>
+     <span class="pill">23% buscam</span>
    </div>
    <h2 class="t" style="font-size:84px;margin-top:34px">A <span class="b">faixa de preço.</span></h2>
-   <p class="p" style="margin-top:26px">Preço em texto no cardápio online evita a pergunta “quanto custa?” e a desistência por dúvida.</p>
+   <p class="p" style="margin-top:26px">Preço em texto no cardápio online ajuda a evitar a pergunta “quanto custa?” e a desistência por dúvida.</p>
    <div style="position:absolute;left:0;right:0;bottom:0"><div class="card" style="padding:26px 32px"><div style="display:flex;justify-content:space-between;font-size:36px;font-weight:700;padding:12px 0;"><span>Prato do dia</span><span style="color:#8db8ff">R$ 00,00</span></div><div style="display:flex;justify-content:space-between;font-size:36px;font-weight:700;padding:12px 0;border-top:1.5px solid rgba(255,255,255,.08)"><span>Porção</span><span style="color:#8db8ff">R$ 00,00</span></div><div style="display:flex;justify-content:space-between;font-size:36px;font-weight:700;padding:12px 0;border-top:1.5px solid rgba(255,255,255,.08)"><span>Bebida</span><span style="color:#8db8ff">R$ 00,00</span></div><div class="ill" style="margin-top:8px">Exemplo de cardápio com preço em texto</div></div></div></div>
     <div style="position:absolute;left:88px;right:88px;bottom:64px;display:flex;justify-content:space-between;align-items:center">
       <div style="display:flex;align-items:center;gap:14px;font-size:26px;font-weight:700;letter-spacing:.12em;color:#e8eefa"><span style="display:inline-block;height:27px"><svg height="27" viewBox="50 40 530 415" xmlns="http://www.w3.org/2000/svg"><path fill="#0865FE" d="M280 48H410L190 450H55Z"/><path fill="#0865FE" fill-rule="evenodd" d="M470 130L570 450H258Z M418 220L480 380H309Z"/></svg></span>GROWLIFT</div>
